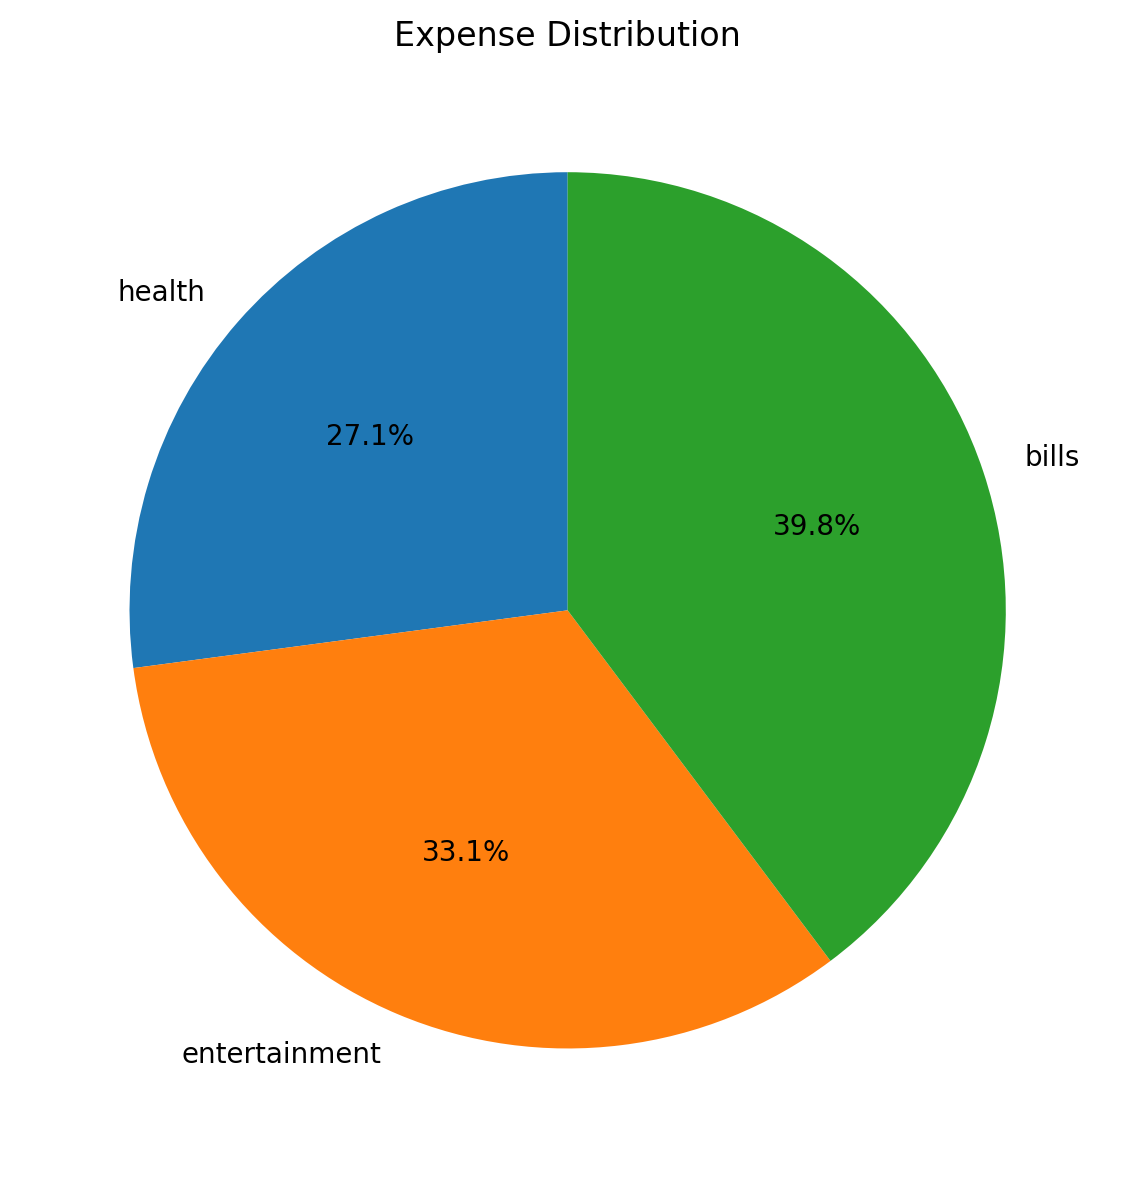
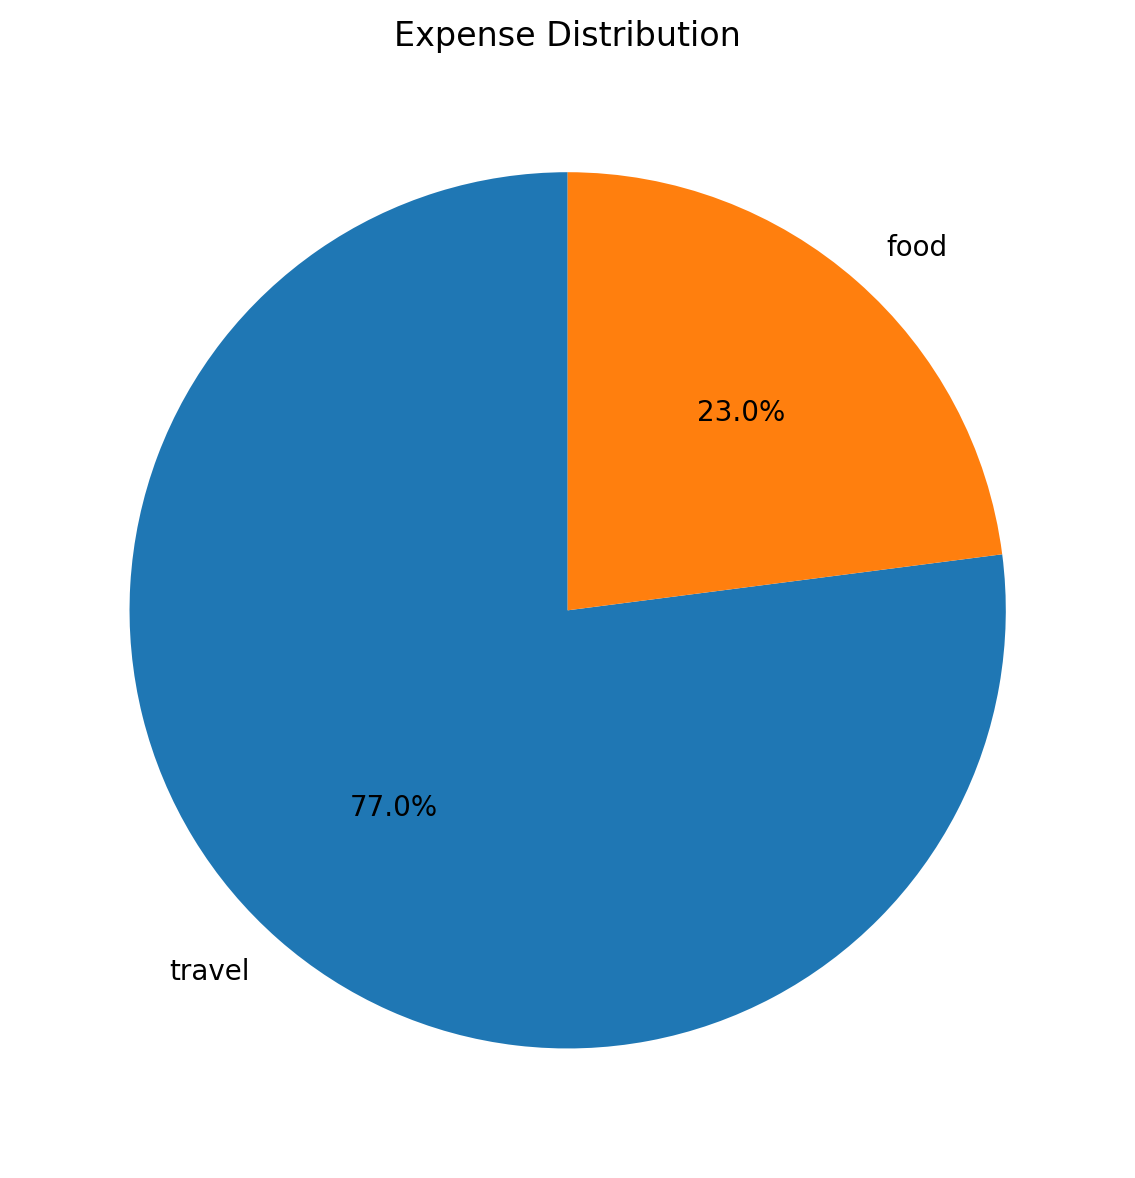
fix: dark mode fix

diff --git a/app/templates/base.html b/app/templates/base.html
@@ -13,8 +13,6 @@
     />
 
     <!-- Tailwind -->
-    <script src="https://cdn.tailwindcss.com"></script>
-
     <script>
       tailwind.config = {
         darkMode: "class",
@@ -28,11 +26,13 @@
       };
     </script>
 
+    <script src="https://cdn.tailwindcss.com"></script>
+
     {% block head %}{% endblock %}
   </head>
 
   <body
-    class="bg-slate-100 min-h-screen text-slate-800 transition-colors duration-300"
+    class="min-h-screen bg-slate-100 text-slate-800 transition-colors duration-300 dark:bg-slate-900 dark:text-slate-100"
   >
     {% include "components/navbar.html" %}
 